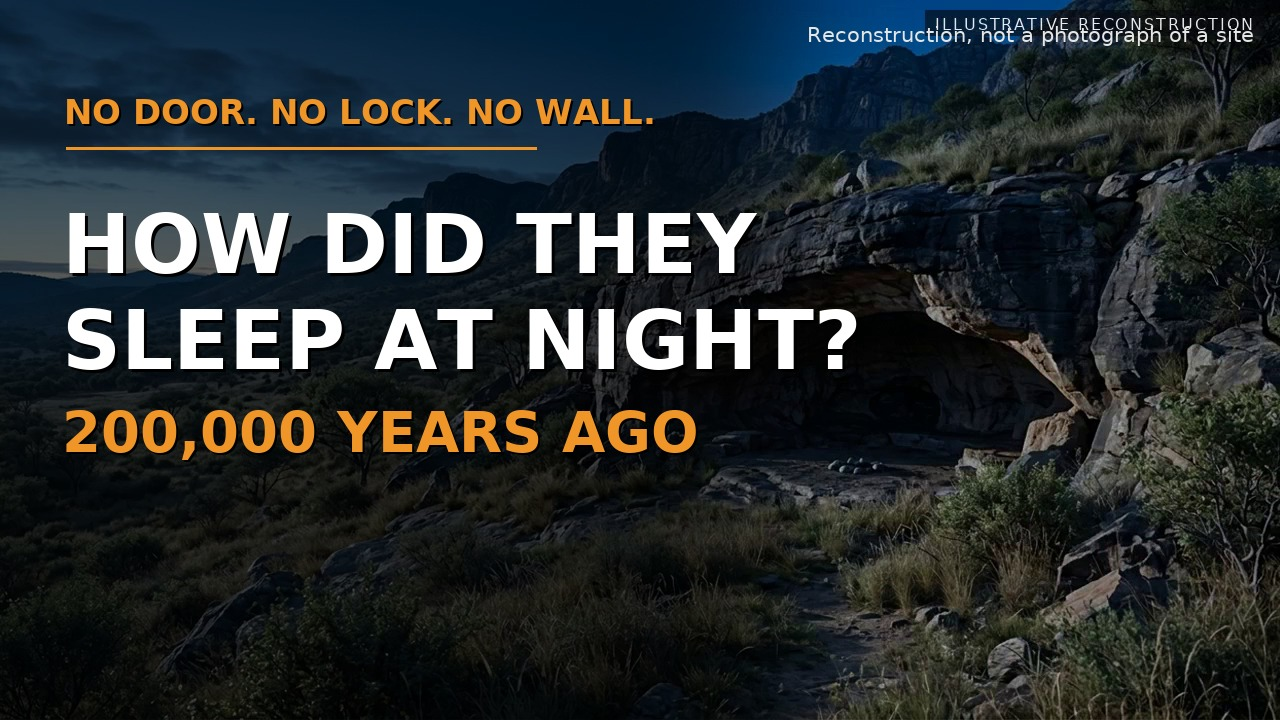
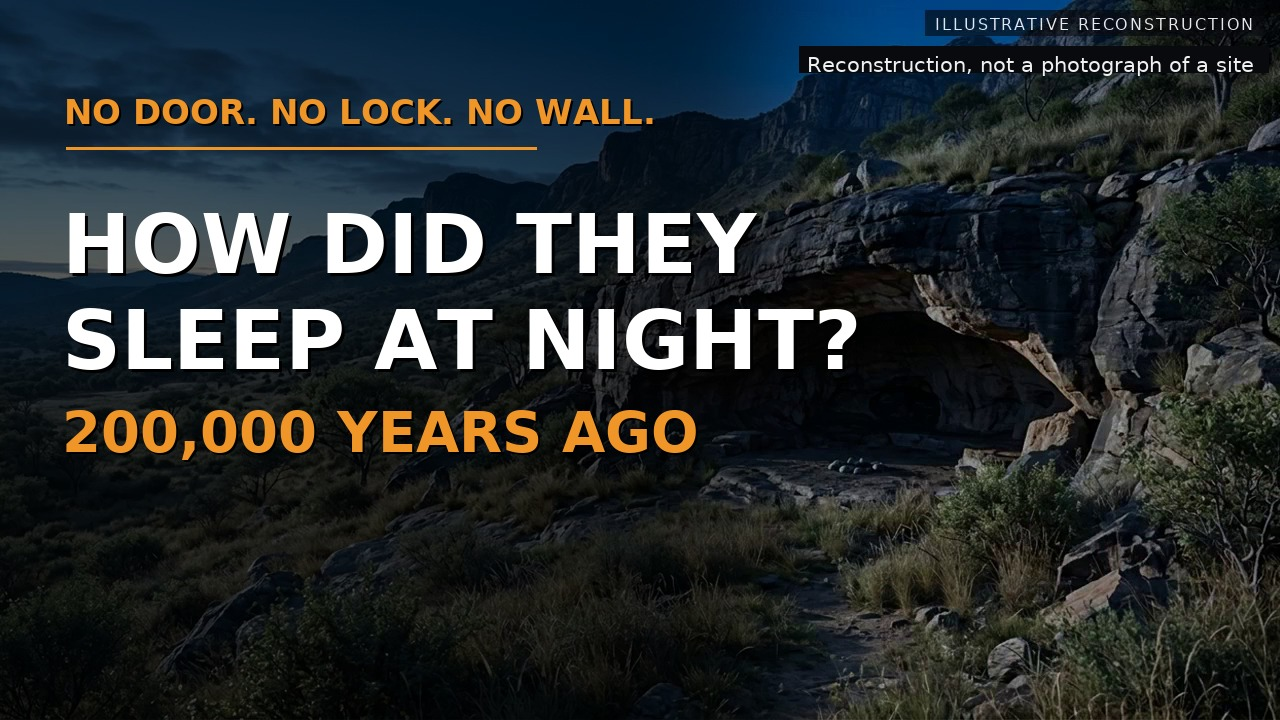
sleep: stop the thumbnail's disclosure note colliding with the corner mark
The note sat at y=22 where the picture's top-right mark now lives, and at
320 px the two ran together. The note moves down and gets its own plate so
both read at phone size.

Changed region(s): [[0.625, 0.0306, 1.0, 0.1222]]

diff --git a/production/sleep/render/thumbnail.py b/production/sleep/render/thumbnail.py
@@ -26,6 +26,9 @@ WHITE = (255, 255, 255)
 ORANGE = (240, 150, 40)
 SHADOW = (0, 0, 0)
 FONT_BOLD = '/usr/share/fonts/truetype/dejavu/DejaVuSans-Bold.ttf'
+# When PIL writes a JPEG it cannot keep RGBA, so translucent plates in this
+# script are composited before saving; TEXT_OPAQUE selects the readable variant.
+TEXT_OPAQUE = True
 FONT = '/usr/share/fonts/truetype/dejavu/DejaVuSans.ttf'
 
 
@@ -72,10 +75,16 @@ def main():
     text_with_shadow(d, (62, 292), 'SLEEP AT NIGHT?', head, WHITE)
     text_with_shadow(d, (62, 400), '200,000 YEARS AGO', load(FONT_BOLD, 56), ORANGE, 2)
 
-    # disclosure, in the corner the channel already uses
+    # Disclosure, in the corner the channel already uses. It has to clear the
+    # corner mark the picture now carries: the old position overlapped it and
+    # the two sets of wording collided into unreadable mush at 320 px.
     note = 'Reconstruction, not a photograph of a site'
     w = d.textlength(note, font=small)
-    d.text((1280 - w - 26, 22), note, font=small, fill=(230, 230, 230))
+    ny = 52 if TEXT_OPAQUE else 22
+    if TEXT_OPAQUE:
+        d.rectangle([1280 - w - 34, ny - 6, 1280 - 12, ny + 20],
+                    fill=(8, 10, 14, 190))
+    d.text((1280 - w - 26, ny), note, font=small, fill=(240, 240, 240))
 
     out = os.path.join(KIT, 'thumbnail-1280x720.jpg')
     img.save(out, quality=92, optimize=True)
